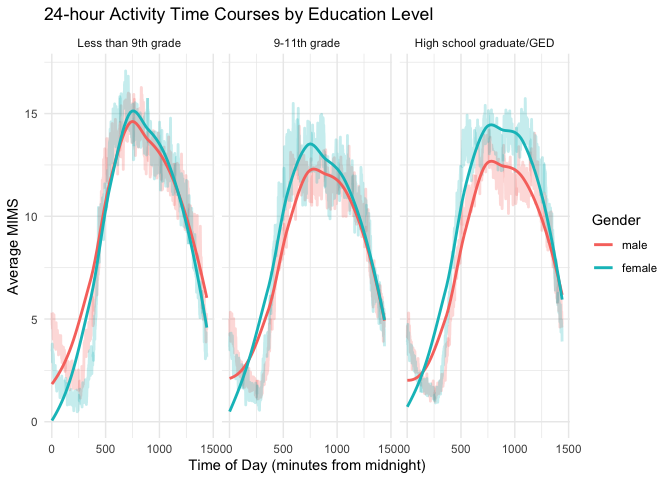
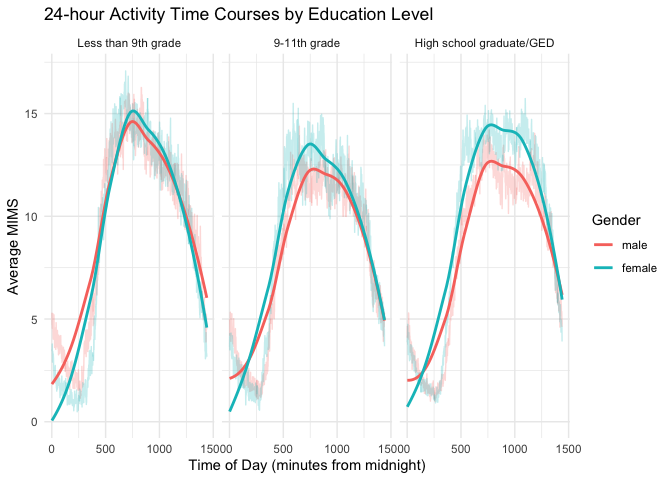
P2

diff --git a/p8105_hw3_kw3104.md b/p8105_hw3_kw3104.md
@@ -91,13 +91,15 @@ education_gender_table <- sex_edu |>
   pivot_wider(names_from = education, values_from = count)
 
 ## make a table
-kable(education_gender_table, title = "Number of Male and Female in Each Education Category")
+kable(education_gender_table, caption = "Number of Male and Female in Each Education Category")
 ```
 
 | sex    | Less than 9th grade | 9-11th grade | High school graduate/GED |
 |:-------|--------------------:|-------------:|-------------------------:|
 | male   |                  27 |           35 |                       56 |
 | female |                  28 |           23 |                       59 |
+
+Number of Male and Female in Each Education Category
 
 - Education level for male: 27 less than 9th grade, 35 9-11th grade, 56
   high school graduate/GED
@@ -192,7 +194,7 @@ education_labels <- c("1" = "Less than 9th grade",
                       "3" = "High school graduate/GED")
 
 ggplot(activity_summary, aes(x = time, y = mean_MIMS, color = sex, group = sex)) +
-  geom_line(size = 1, alpha = 0.25) +
+  geom_line(alpha = 0.25) +
   geom_smooth(se = FALSE, method = "loess") +
   facet_wrap(~ education, labeller = labeller(education = education_labels)) +
   labs(
@@ -202,12 +204,6 @@ ggplot(activity_summary, aes(x = time, y = mean_MIMS, color = sex, group = sex))
     color = "Gender") +
   theme_minimal()
 ```
-
-    ## Warning: Using `size` aesthetic for lines was deprecated in ggplot2 3.4.0.
-    ## ℹ Please use `linewidth` instead.
-    ## This warning is displayed once every 8 hours.
-    ## Call `lifecycle::last_lifecycle_warnings()` to see where this warning was
-    ## generated.
 
     ## `geom_smooth()` using formula = 'y ~ x'
 
